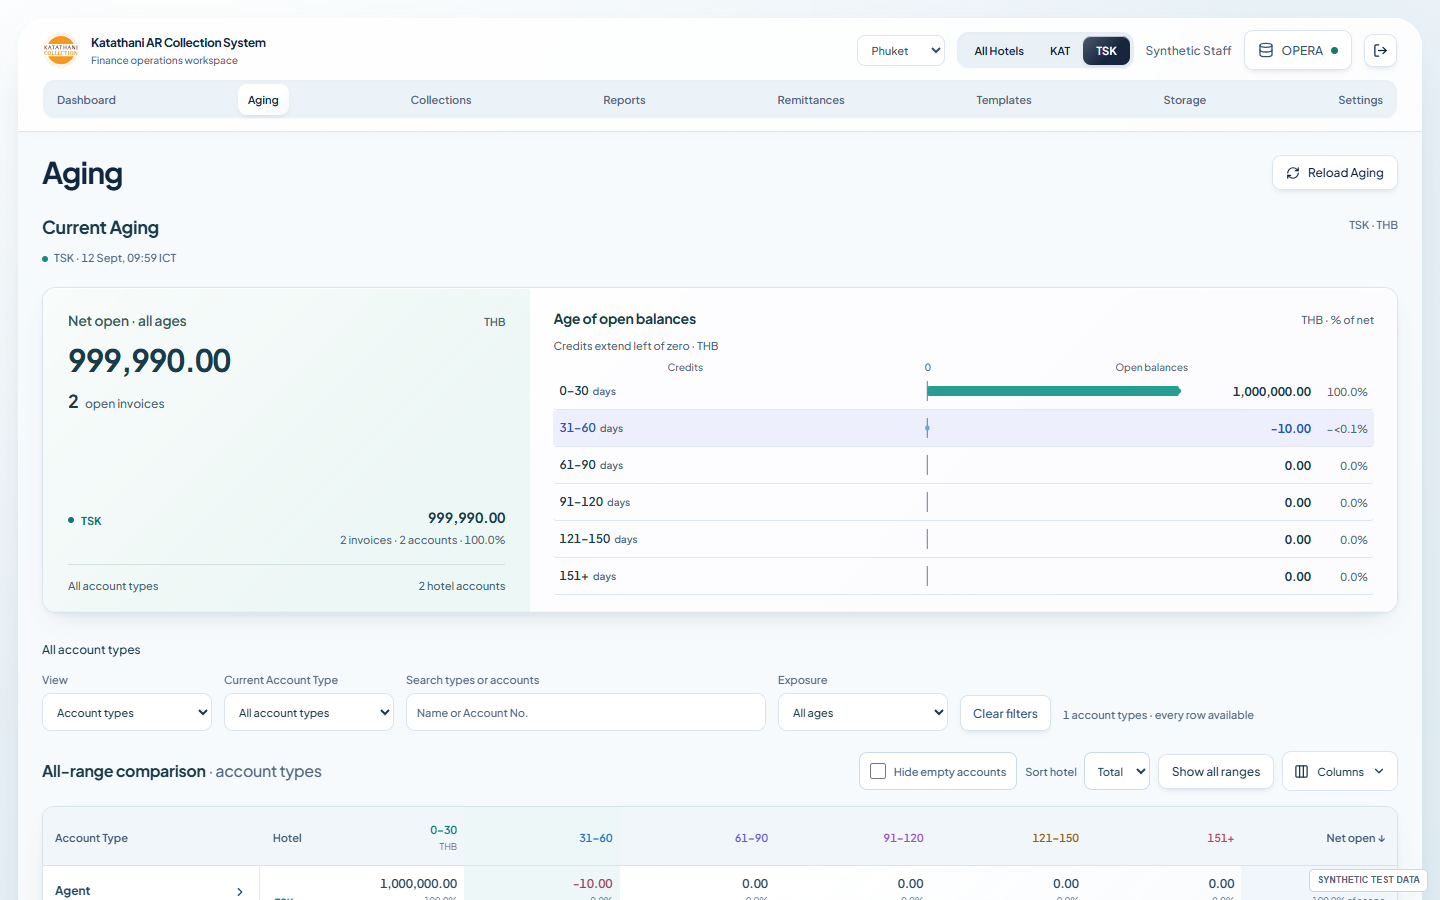
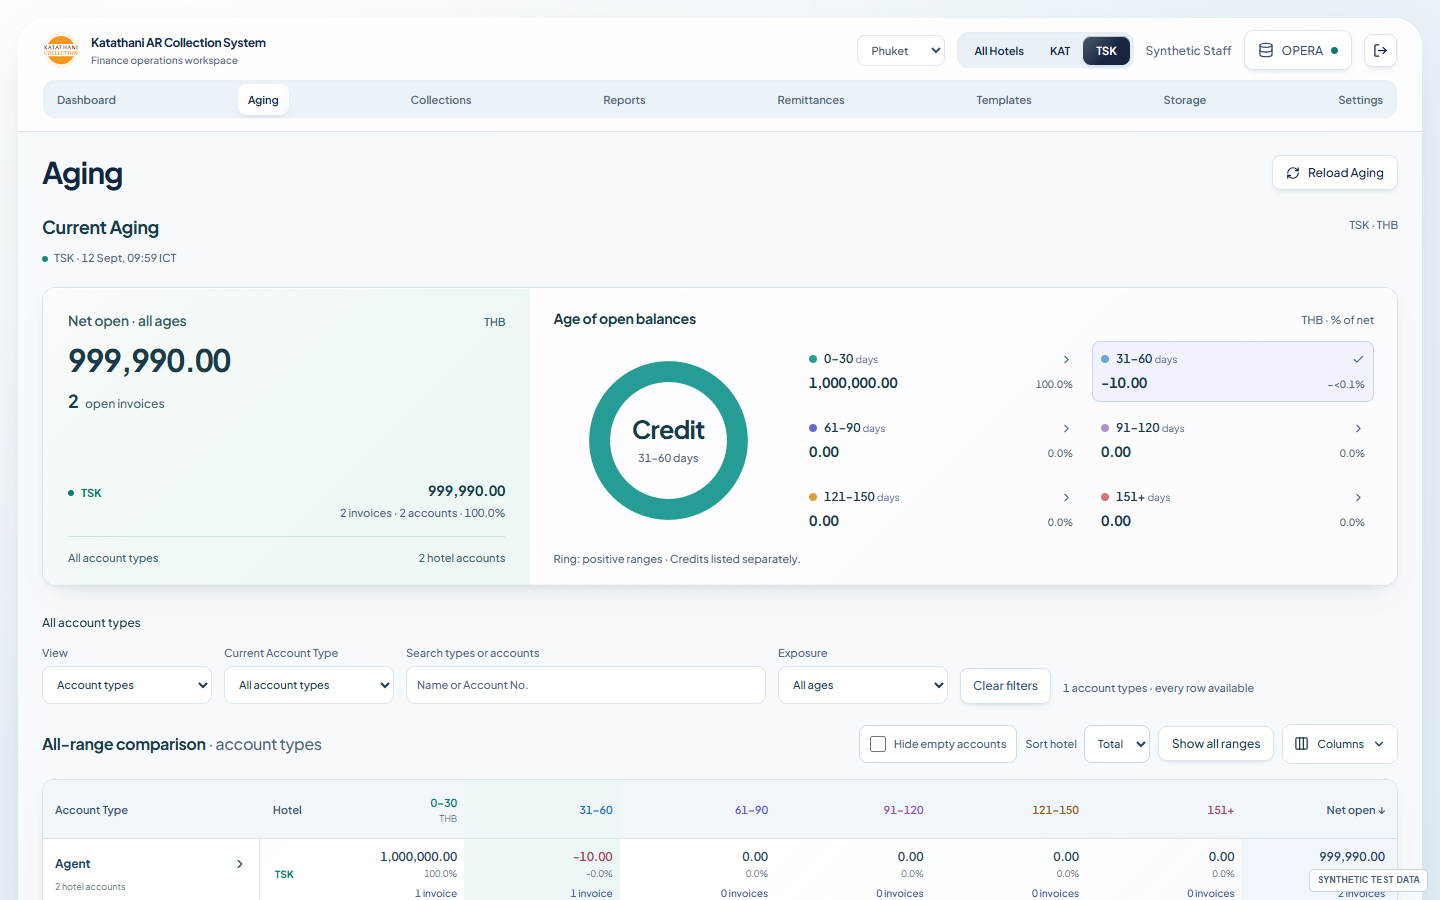
Keep the Aging ring layout for hotels with credit balances

diff --git a/src/dashboard/aging-overview.css b/src/dashboard/aging-overview.css
@@ -43,7 +43,7 @@
 @media(min-width:1250px){.aging-v4-range>strong{grid-column:auto;font-size:14px}.aging-v4-range-share{grid-column:auto;text-align:right;white-space:nowrap}.aging-v4-overview .aging-v4-range{padding:8px}.aging-v4-range-label{font-size:12px}.aging-v4-ranges{row-gap:8px}.aging-v4-profile{padding-bottom:17px}}
 @media(max-width:1100px){.aging-v4-overview{grid-template-columns:minmax(240px,.34fr) minmax(0,.66fr)}.aging-v4-balance{padding:21px 19px 17px}.aging-v4-net{font-size:27px}.aging-v4-profile{padding:19px 16px 15px}.aging-v4-distribution{gap:9px;grid-template-columns:minmax(105px,.7fr) minmax(0,2fr)}.aging-v4-ranges{column-gap:3px}.aging-v4-ring-label strong{font-size:22px}}
 @media(max-width:820px){.aging-v4-overview{grid-template-columns:1fr}.aging-v4-balance{display:grid;grid-template-columns:minmax(0,1fr) minmax(0,1fr);gap:0 30px;padding:20px 23px 16px}.aging-v4-balance-heading{grid-column:1}.aging-v4-net{grid-column:1;align-self:start;margin-top:7px}.aging-v4-hotels{grid-column:2;grid-row:1/span 3;align-content:center;padding-top:0;margin:0}.aging-v4-scope{grid-column:1/-1}.aging-v4-source-state{grid-column:1}.aging-v4-profile{padding:19px 23px 17px}.aging-v4-distribution{grid-template-columns:145px minmax(0,1fr);gap:16px}.aging-v4-ranges{gap:5px 12px}.aging-v4-range>strong{font-size:14px}}
-@media(max-width:520px){.aging-v4-overview{margin-top:18px;margin-bottom:22px}.aging-v4-balance{display:flex;padding:19px 18px 15px}.aging-v4-net{font-size:29px}.aging-v4-hotels{gap:9px;padding-top:18px;width:100%}.aging-v4-hotel>strong{font-size:14px}.aging-v4-scope{width:100%;gap:4px 12px;margin-top:12px;padding-top:10px}.aging-v4-profile{padding:17px 13px 15px}.aging-v4-profile-heading{padding:0 4px;gap:4px}.aging-v4-profile-heading h3{font-size:14px}.aging-v4-profile-heading>span{font-size:9px}.aging-v4-distribution{display:block;margin-top:12px}.aging-v4-chart{display:none}.aging-v4-mobile-track{display:flex;width:calc(100% - 8px);height:15px;border-radius:4px;overflow:hidden;margin:0 4px 11px;background:#edf0f5}.aging-v4-mobile-track>span{height:100%;min-width:0}.aging-v4-ranges{gap:5px 4px}.aging-v4-overview .aging-v4-range{padding:9px 8px;min-height:73px}.aging-v4-range>strong{font-size:13px}.aging-v4-range-label{font-size:11px;gap:6px}.aging-v4-range-label small{font-size:9px}.aging-v4-chart-note{padding:0 4px;font-size:10px}.aging-v4-overview[data-chart-mode=signed] .aging-v4-chart{display:block;width:100%;max-width:none;height:120px;aspect-ratio:auto;margin-bottom:9px}.aging-v4-overview[data-chart-mode=signed] .aging-v4-signed-profile{height:120px;width:100%}.aging-v4-overview[data-chart-mode=zero] .aging-v4-chart,.aging-v4-overview[data-chart-mode=unavailable] .aging-v4-chart{display:block;max-width:none;aspect-ratio:auto}.aging-v4-chart-message{max-width:none;align-items:flex-start;gap:0;margin:4px 4px 10px;text-align:left}.aging-v4-chart-message>strong{display:none}.aging-v4-chart-message>span{font-size:11px}}
+@media(max-width:520px){.aging-v4-overview{margin-top:18px;margin-bottom:22px}.aging-v4-balance{display:flex;padding:19px 18px 15px}.aging-v4-net{font-size:29px}.aging-v4-hotels{gap:9px;padding-top:18px;width:100%}.aging-v4-hotel>strong{font-size:14px}.aging-v4-scope{width:100%;gap:4px 12px;margin-top:12px;padding-top:10px}.aging-v4-profile{padding:17px 13px 15px}.aging-v4-profile-heading{padding:0 4px;gap:4px}.aging-v4-profile-heading h3{font-size:14px}.aging-v4-profile-heading>span{font-size:9px}.aging-v4-distribution{display:block;margin-top:12px}.aging-v4-chart{display:none}.aging-v4-mobile-track{display:flex;width:calc(100% - 8px);height:15px;border-radius:4px;overflow:hidden;margin:0 4px 11px;background:#edf0f5}.aging-v4-mobile-track>span{height:100%;min-width:0}.aging-v4-ranges{gap:5px 4px}.aging-v4-overview .aging-v4-range{padding:9px 8px;min-height:73px}.aging-v4-range>strong{font-size:13px}.aging-v4-range-label{font-size:11px;gap:6px}.aging-v4-range-label small{font-size:9px}.aging-v4-chart-note{padding:0 4px;font-size:10px}.aging-v4-overview[data-chart-mode=zero] .aging-v4-chart,.aging-v4-overview[data-chart-mode=unavailable] .aging-v4-chart{display:block;max-width:none;aspect-ratio:auto}.aging-v4-chart-message{max-width:none;align-items:flex-start;gap:0;margin:4px 4px 10px;text-align:left}.aging-v4-chart-message>strong{display:none}.aging-v4-chart-message>span{font-size:11px}}
 @media(prefers-reduced-motion:reduce){.aging-v4-ring circle{transition:none}}
 /* Keep range labels inline when the app shell gives generic small text a block display. */
 .aging-v4-overview .aging-v4-range-label small{display:inline}
@@ -52,24 +52,4 @@
 .aging-v4-invoice-total strong{font-size:18px;font-weight:700;color:var(--aging-v4-ink);margin-right:4px}
 .aging-v4-hotel>.aging-v4-invoice-count{grid-column:2;font-size:11px;line-height:1.5;margin:0}
 
-.aging-v4-signed{margin-top:10px;min-width:0}
-.aging-v4-signed-caption{color:var(--aging-v4-muted);font-size:11px;margin:0 0 9px}
-
-.aging-v4-overview .aging-v4-signed-range{display:grid;grid-template-columns:100px minmax(70px,1fr) 115px 49px;align-items:center;gap:8px;width:100%;min-height:37px;padding:5px 6px;text-align:left;border:0;border-radius:4px;border-bottom:1px solid var(--line);box-shadow:none;background:transparent;color:var(--aging-v4-ink);font-size:12px}
-.aging-v4-signed-label{font-weight:600}.aging-v4-signed-label small{display:inline;margin-left:4px;font-size:10px;color:var(--aging-v4-muted)}
-.aging-v4-signed-range svg{display:block;width:100%;height:20px;color:var(--aging-v4-muted)}
-.aging-v4-signed-range strong,.aging-v4-signed-share{text-align:right;font-variant-numeric:tabular-nums;white-space:nowrap}
-.aging-v4-signed-share{font-size:11px;color:var(--aging-v4-muted)}
-.aging-v4-overview .aging-v4-signed-range:hover,.aging-v4-overview .aging-v4-signed-range[aria-pressed=true]{background:#edf0fc;color:var(--ar-text-action)}
-.aging-v4-signed-range:focus-visible{outline:2px solid var(--ar-text-action);outline-offset:1px}
-@media(max-width:1100px){.aging-v4-overview .aging-v4-signed-range{grid-template-columns:88px minmax(30px,1fr) 109px 46px;gap:5px;font-size:11px}}
-@media(max-width:520px){.aging-v4-overview .aging-v4-signed-range{grid-template-columns:1fr auto auto;gap:2px 10px;padding:7px 6px;font-size:12px}.aging-v4-signed-range svg{grid-column:1/-1;grid-row:2}.aging-v4-signed-range strong{grid-column:2;grid-row:1}.aging-v4-signed-share{grid-column:3;grid-row:1}}
-
-/* The axis shares the plot column exactly, including narrow-screen reflow. */
-.aging-v4-signed-axis{display:grid;grid-template-columns:100px minmax(70px,1fr) 115px 49px;gap:8px;margin:0;padding:0 6px;font-size:10px;color:var(--aging-v4-muted)}
-.aging-v4-signed-scale{grid-column:2;display:grid;grid-template-columns:1fr auto 1fr;gap:5px;white-space:nowrap}
-.aging-v4-signed-scale>span:last-child{text-align:right}
-#root .aging-v4-overview .aging-v4-signed-range,#root .aging-v4-overview .aging-v4-signed-range:hover{box-shadow:none;background-image:none}
-#root .aging-v4-signed-label small{display:inline}
-@media(max-width:1100px){.aging-v4-signed-axis{grid-template-columns:88px minmax(30px,1fr) 109px 46px;gap:5px}.aging-v4-signed-scale>span:first-child,.aging-v4-signed-scale>span:last-child{visibility:hidden}}
-@media(max-width:520px){.aging-v4-signed-axis{display:block}.aging-v4-signed-scale>span:first-child,.aging-v4-signed-scale>span:last-child{visibility:visible}}
+.aging-v4-ring-label small{font-size:10px;color:var(--aging-v4-muted)}

diff --git a/src/dashboard/AgingOverview.tsx b/src/dashboard/AgingOverview.tsx
@@ -29,14 +29,16 @@ export default function AgingOverview({region,data,columns,label,selectedKey,onS
  const distribution=reconciles&&total.amount!>0&&values.every(value=>value!==null&&value>=0);
  const zero=reconciles&&values.every(value=>value===0);
  const mode=distribution?'distribution':zero?'zero':complete&&known(total)?'signed':'unavailable';
- const selected=ranges.find(range=>range.key===selectedKey);
- const selectedPercent=selected&&known(selected.cell)&&known(total)?agingPercentage(selected.cell.amount,total.amount):null;
+ const ringValues=values.map(value=>Math.max(0,value??0)),ringTotal=ringValues.reduce((n,value)=>n+value,0);
+ const hasRing=complete&&known(total)&&ringTotal>0;
+ const selected=ranges.find(range=>range.key===selectedKey),selectedValue=selected&&known(selected.cell)?selected.cell.amount:null;
+ const selectedPercent=selectedValue!==null&&selectedValue>=0&&hasRing?selectedValue/ringTotal*100:null;
  const hotels=regionHotels(region??agingRegion(data.members)).filter(hotel=>data.net[hotel].state!=='outside');
  const note=mode==='distribution'?'Share of net open · all source ranges'
   :mode==='zero'?'Verified net balances are zero.'
   :mode==='unavailable'?'Source verification required · only verified values are shown.'
-  :!reconciles?'Range total differs from net open. Bars use one signed THB scale.'
-  :'Credits extend left of zero. Percentages use signed net open.';
+  :!reconciles?'Range total differs from net open. Ring shows positive ranges.'
+  :'Ring: positive ranges · Credits listed separately.';
 
  return <section className="aging-v4-overview" aria-label="Current aging overview" data-chart-mode={mode}>
   <div className="aging-v4-balance">
@@ -57,34 +59,18 @@ export default function AgingOverview({region,data,columns,label,selectedKey,onS
   </div>
   <div className="aging-v4-profile">
    <div className="aging-v4-profile-heading"><h3>Age of open balances</h3><span>THB · % of net</span></div>
-   {mode==='signed'?<div className="aging-v4-signed" aria-label="Signed aging balances">
-    <p className="aging-v4-signed-caption">Credits extend left of zero · THB</p>
-    <div className="aging-v4-signed-axis" aria-hidden="true"><span className="aging-v4-signed-scale"><span>Credits</span><span>0</span><span>Open balances</span></span></div>
-    {ranges.map((range,index)=>{
-     const value=values[index]!,active=range.key===selectedKey,max=Math.max(...values.map(v=>Math.abs(v??0)),1),end=300+value/max*290;
-     return <button type="button" className="aging-v4-signed-range" key={range.key} aria-label={`Compare ${range.bucket.label} days`} aria-pressed={active} onClick={()=>onSelect(range.key)}>
-      <span className="aging-v4-signed-label">{range.bucket.label}<small>days</small></span>
-      <svg viewBox="0 0 600 20" preserveAspectRatio="none" aria-hidden="true"><line x1="300" x2="300" y1="0" y2="20" stroke="currentColor"/><rect x={Math.min(300,end)} y="5" width={Math.abs(end-300)} height="10" rx="2" fill={range.color}/>{value!==0&&<circle cx={end} cy="10" r="2.5" fill={range.color}/>}</svg>
-      <strong>{amount(value)}</strong><span className="aging-v4-signed-share">{share(known(total)?agingPercentage(value,total.amount):null)}</span>
-     </button>;
-    })}
-   </div>:<div className="aging-v4-distribution">
+   <div className="aging-v4-distribution">
     <div className="aging-v4-chart">
-     {distribution?<>
-      <svg className="aging-v4-ring" viewBox="0 0 180 180" role="img" aria-label="Aging distribution: verified nonnegative ranges as shares of net open">
-       <circle cx="90" cy="90" r="67" fill="none" stroke="#edf0f5" strokeWidth="20"/>
-       {ranges.map((range,index)=>{
-        const percentage=values[index]!/total.amount!*100;
-        const previous=values.slice(0,index).reduce<number>((running,value)=>running+value!,0)/total.amount!*100;
-        return percentage>0?<circle key={range.key} cx="90" cy="90" r="67" fill="none" stroke={range.color} strokeWidth={range.key===selectedKey?25:20} pathLength="100" strokeDasharray={`${percentage} ${100-percentage}`} strokeDashoffset={-previous} transform="rotate(-90 90 90)" className={range.key===selectedKey?'is-selected':''}/>:null;
-       })}
-      </svg>
-      <div className="aging-v4-ring-label" aria-hidden="true"><strong>{selectedPercent===null?'All ages':`${selectedPercent.toFixed(1)}%`}</strong><span>{selected?`${selected.bucket.label} days`:'of net open'}</span></div>
-     </>:mode==='zero'?<div className="aging-v4-chart-message"><strong>0.00</strong><span>Net balance is zero</span></div>
-      :mode==='unavailable'?<div className="aging-v4-chart-message"><strong>—</strong><span>Distribution unavailable</span></div>
-      :null}
+     <svg className="aging-v4-ring" viewBox="0 0 180 180" role="img" aria-label={hasRing?(distribution?'Aging distribution: verified nonnegative ranges as shares of net open':'Positive aging ranges: shares of positive range balances only. Credits listed separately.') : mode==='zero'?'Verified zero balances':mode==='signed'?'Credit balances: no positive ranges':'Aging distribution unavailable'}>
+      <circle cx="90" cy="90" r="67" fill="none" stroke="#edf0f5" strokeWidth="20"/>
+      {hasRing&&ranges.map((range,index)=>{
+       const percentage=ringValues[index]/ringTotal*100,previous=ringValues.slice(0,index).reduce((n,value)=>n+value,0)/ringTotal*100;
+       return percentage>0?<circle key={range.key} cx="90" cy="90" r="67" fill="none" stroke={range.color} strokeWidth={range.key===selectedKey?25:20} pathLength="100" strokeDasharray={`${percentage} ${100-percentage}`} strokeDashoffset={-previous} transform="rotate(-90 90 90)" className={range.key===selectedKey?'is-selected':''}/>:null;
+      })}
+     </svg>
+     <div className="aging-v4-ring-label" aria-hidden="true"><strong>{mode==='unavailable'?'—':mode==='zero'?'0.00':selectedValue!==null&&selectedValue<0?'Credit':selectedPercent===null?'All ages':share(selectedPercent)}</strong><span>{mode==='zero'?'Net balance is zero':selected?`${selected.bucket.label} days`:'of net open'}</span>{hasRing&&!distribution&&selectedValue!==null&&selectedValue>=0&&<small>of positive ranges</small>}</div>
     </div>
-    {distribution&&<div className="aging-v4-mobile-track" aria-hidden="true">{ranges.map((range,index)=><span key={range.key} style={{width:`${values[index]!/total.amount!*100}%`,backgroundColor:range.color}}/>)}</div>}
+    {hasRing&&<div className="aging-v4-mobile-track" aria-hidden="true">{ranges.map((range,index)=><span key={range.key} style={{width:`${ringValues[index]/ringTotal*100}%`,backgroundColor:range.color}}/>)}</div>}
     <div className="aging-v4-ranges" aria-label="Select aging range">{ranges.map(range=>{
      const active=range.key===selectedKey;
      const percentage=known(range.cell)&&known(total)?agingPercentage(range.cell.amount,total.amount):null;
@@ -94,8 +80,8 @@ export default function AgingOverview({region,data,columns,label,selectedKey,onS
       <span className="aging-v4-range-share">{!known(range.cell)?stateLabel[range.cell?.state??'unavailable']:share(percentage)}</span>
      </button>;
     })}</div>
-   </div>}
-   {(mode==='unavailable'||!reconciles)&&<p className="aging-v4-chart-note">{note}</p>}
+   </div>
+   {(mode==='unavailable'||mode==='signed'||!reconciles)&&<p className="aging-v4-chart-note">{note}</p>}
   </div>
  </section>;
 }

diff --git a/tests/browser/dashboard-table-sorting.spec.ts b/tests/browser/dashboard-table-sorting.spec.ts
@@ -35,7 +35,7 @@ for(const width of [1440,390])test('Dashboard all records sort across source pag
  expect(await page.locator('.dashboard-page').evaluate(e=>e.scrollWidth<=e.clientWidth)).toBe(true);
 });
 
-for(const width of [1440,390])test('signed Aging has named aligned bars while positive Aging retains its ring at '+width,async({page})=>{
+for(const width of [1440,390])test('signed Aging retains the ring and marks credits without inventing positive shares at '+width,async({page})=>{
  await setupDashboard(page);await page.setViewportSize({width,height:900});
  const accounts=currentAgingAccounts.map(a=>a.id==='tsk-azure'?{...a,open:999990,agingBuckets:a.agingBuckets!.map((b,i)=>({...b,amount:i===0?1000000:i===1?-10:0,debit:i===0?1000000:0,credit:i===1?-10:0}))}:a);
  await page.route('**/api/portfolio**',r=>r.fulfill({json:{status:'connected',accounts,refresh:{running:false,hotels:['KAT','TSK'].map(hotel=>({hotel,status:'succeeded',last_success_at:'2026-09-12T02:59:00Z'}))}}}));
@@ -46,10 +46,10 @@ for(const width of [1440,390])test('signed Aging has named aligned bars while po
  });
  await openDashboard(page,'/?dashboard=1&dashboardView=aging&hotel=TSK');
  const overview=page.getByRole('region',{name:'Current aging overview'});
- await expect(overview).toHaveAttribute('data-chart-mode','signed');await expect(overview.locator('.aging-v4-signed-range')).toHaveCount(6);
- await expect(overview).toContainText('−<0.1%');await expect(overview).toContainText('-10.00');
+ await expect(overview).toHaveAttribute('data-chart-mode','signed');await expect(overview.locator('.aging-v4-ring')).toHaveCount(1);
+ await expect(overview).toContainText('−<0.1%');await expect(overview).toContainText('-10.00');await expect(overview).toContainText('Ring: positive ranges');await expect(overview.locator('.aging-v4-ring circle[stroke-dasharray]')).toHaveCount(1);
  await overview.getByRole('button',{name:'Compare 31–60 days',exact:true}).click();await expect(overview.getByRole('button',{name:'Compare 31–60 days',exact:true})).toHaveAttribute('aria-pressed','true');
- await overview.scrollIntoViewIfNeeded();await page.screenshot({path:`evidence/aging-signed-readable-${width}.png`});
+ await expect(overview.locator('.aging-v4-ring-label')).toContainText('Credit');await overview.scrollIntoViewIfNeeded();await page.screenshot({path:`evidence/aging-signed-readable-${width}.png`});
  expect(await overview.evaluate(e=>e.scrollWidth<=e.clientWidth)).toBe(true);
  await page.getByRole('button',{name:'KAT',exact:true}).click();
  // KAT's original synthetic data also contains credits; select a positive account type instead.

diff --git a/tests/aging-overview.test.tsx b/tests/aging-overview.test.tsx
@@ -13,10 +13,10 @@ function render(values:(number|null)[],net:number|null,states:AgingCell['state']
 }
 
 describe('aging distribution evidence',()=>{
- it('labels every signed bar, exposes tiny credits and never rounds a nonzero share to negative zero',()=>{
+ it('keeps the ring for signed ranges, labels its positive basis and never rounds a nonzero share to negative zero',()=>{
   const html=render([1000000,-10,0,0,0,0],999990);
-  expect(html).toContain('Credits extend left of zero');
-  expect(html).toContain('class="aging-v4-signed-range"');
+  expect(html).toContain('Credits listed separately');
+  expect(html).toContain('class="aging-v4-ring"');
   expect(html).toContain('−&lt;0.1%');
   expect(html).not.toContain('-0.0%');
  });
@@ -33,7 +33,7 @@ describe('aging distribution evidence',()=>{
   expect(html).toContain('data-chart-mode="signed"');
   expect(html).toContain('-20.00');
   expect(html).toContain('-20.0%');
-  expect(html).toContain('Credits extend left of zero');
+  expect(html).toContain('Credits listed separately');
  });
  it('does not present non-reconciling ranges as parts of net',()=>{
   const html=render([120,20,0,0,0,0],100);

diff --git a/docs/PROJECT_STATUS.md b/docs/PROJECT_STATUS.md
@@ -2,9 +2,9 @@
 
 - Implemented Collections invoice-header sorting for Invoice, Folio, Guest, Action date, Latest sent and Open amount. Natural number ordering and missing-last behavior keep selection by exact invoice ID; existing Account sorting, hotel scope, independent scrolling and document commands are unchanged.
 - Dashboard detail tables now read validated API pages into one list without Previous/Next. Sorting covers the full loaded dataset; long lists append 200 rendered rows on scroll. Reads are canceled on scope/session/revision changes, check count/identity/scope and source-summary consistency, reject incomplete page membership, and expose Retry without presenting a partial list as complete. The read cap remains bounded at 50,000 records; dates, credit signs and unknown coverage remain explicit.
-- Read-only production inspection confirmed TSK had a negative aging range, triggering the existing signed-chart fallback. Owner chose to retain nonnegative distribution rings and improve the signed view. Signed bars now share a centered zero scale with row-aligned age labels, exact THB and selectable ranges; tiny nonzero percentages no longer display negative zero. No OPERA balance or aging basis changed.
+- Read-only production inspection confirmed TSK had a negative aging range, triggering the existing signed-chart fallback. Owner clarified with a screenshot that TSK must retain the same ring-and-range layout as every other hotel. The ring now uses positive range balances with an explicit basis caption when credits exist; signed amounts and net percentages remain in the range list. Selecting a negative range identifies Credit instead of inventing a positive slice. Tiny nonzero percentages no longer display negative zero. No OPERA balance or aging basis changed.
 - Tested locally: 1,494 unit cases passed, with ten new continuous-read/sorting cases and a signed-chart regression. Focused browser checks cover both regions, desktop/mobile, selection preservation, full-list sorting, load-error retry and scroll continuation. Six new Dashboard/Aging cases, 26 Collections cases, and 22 existing Dashboard cases verified across bounded runs. Synthetic captures are named `dashboard-continuous-sort-*`, `aging-signed-readable-*` and `collections-invoice-sort-*`; original reference images and previous captures preserved. Build/deployment verification is recorded below when complete.
-- Deployed runtime `a27921deee5e23faf85d2dbd5fe3861f38aaa782`, Worker `62f07b41-6876-4af0-b1b9-9128674cbefb`. Health/source/database and six anonymous access boundaries passed. Eight deployed-asset browser cases passed with synthetic APIs. Read-only production UI verification confirmed the signed TSK graph and 106 Dashboard detail rows in one list, no Next button, and working Invoice sorting. No schema, refresh cadence, email sending, provider function, access grant or paid capacity change. PR #102 holds final CI evidence; one initial run passed all 127 browser cases while the concurrent PR run timed out in an unchanged PDF remount test. No PDF implementation was changed.
+- Initial sorting/list deployment runtime `a27921deee5e23faf85d2dbd5fe3861f38aaa782`, Worker `62f07b41-6876-4af0-b1b9-9128674cbefb`. Health/source/database and six anonymous access boundaries passed. Eight deployed-asset browser cases passed with synthetic APIs. Read-only production UI verification confirmed the signed TSK graph and 106 Dashboard detail rows in one list, no Next button, and working Invoice sorting. No schema, refresh cadence, email sending, provider function, access grant or paid capacity change. PR #102 holds final CI evidence; one initial run passed all 127 browser cases while the concurrent PR run timed out in an unchanged PDF remount test. No PDF implementation was changed. The subsequent owner-confirmed ring correction passed six chart unit cases and both desktop/mobile chart browser cases; its deployment is recorded in PR #102.
 
 ## 29 September 2026 — Refresh publication timeout repaired
 

diff --git a/docs/DECISIONS_AND_OPEN_ITEMS.md b/docs/DECISIONS_AND_OPEN_ITEMS.md
@@ -1,6 +1,6 @@
 ## Owner clarification — Work-table sorting and signed Aging — 30 September 2026
 
-Collections needs sortable invoice columns in its right workbench. Dashboard detail records should scroll continuously instead of requiring Next/Previous, with sorting across the complete selection. The owner explicitly chose to keep distribution rings where supported and improve the signed Aging view for TSK; credits must remain signed and unknown sources must remain unknown.
+Collections needs sortable invoice columns in its right workbench. Dashboard detail records should scroll continuously instead of requiring Next/Previous, with sorting across the complete selection. The owner clarified with a screenshot that every hotel, including TSK, must keep the ring with the same age-range list. Where credits exist, the ring represents positive range balances and is labeled accordingly; the range list retains exact signed net amounts and percentages. Negative ranges must not become positive ring slices, and unknown sources must remain unknown.
 
 ## 29 September 2026 — Independent manual Google Sheets in Reports
 
